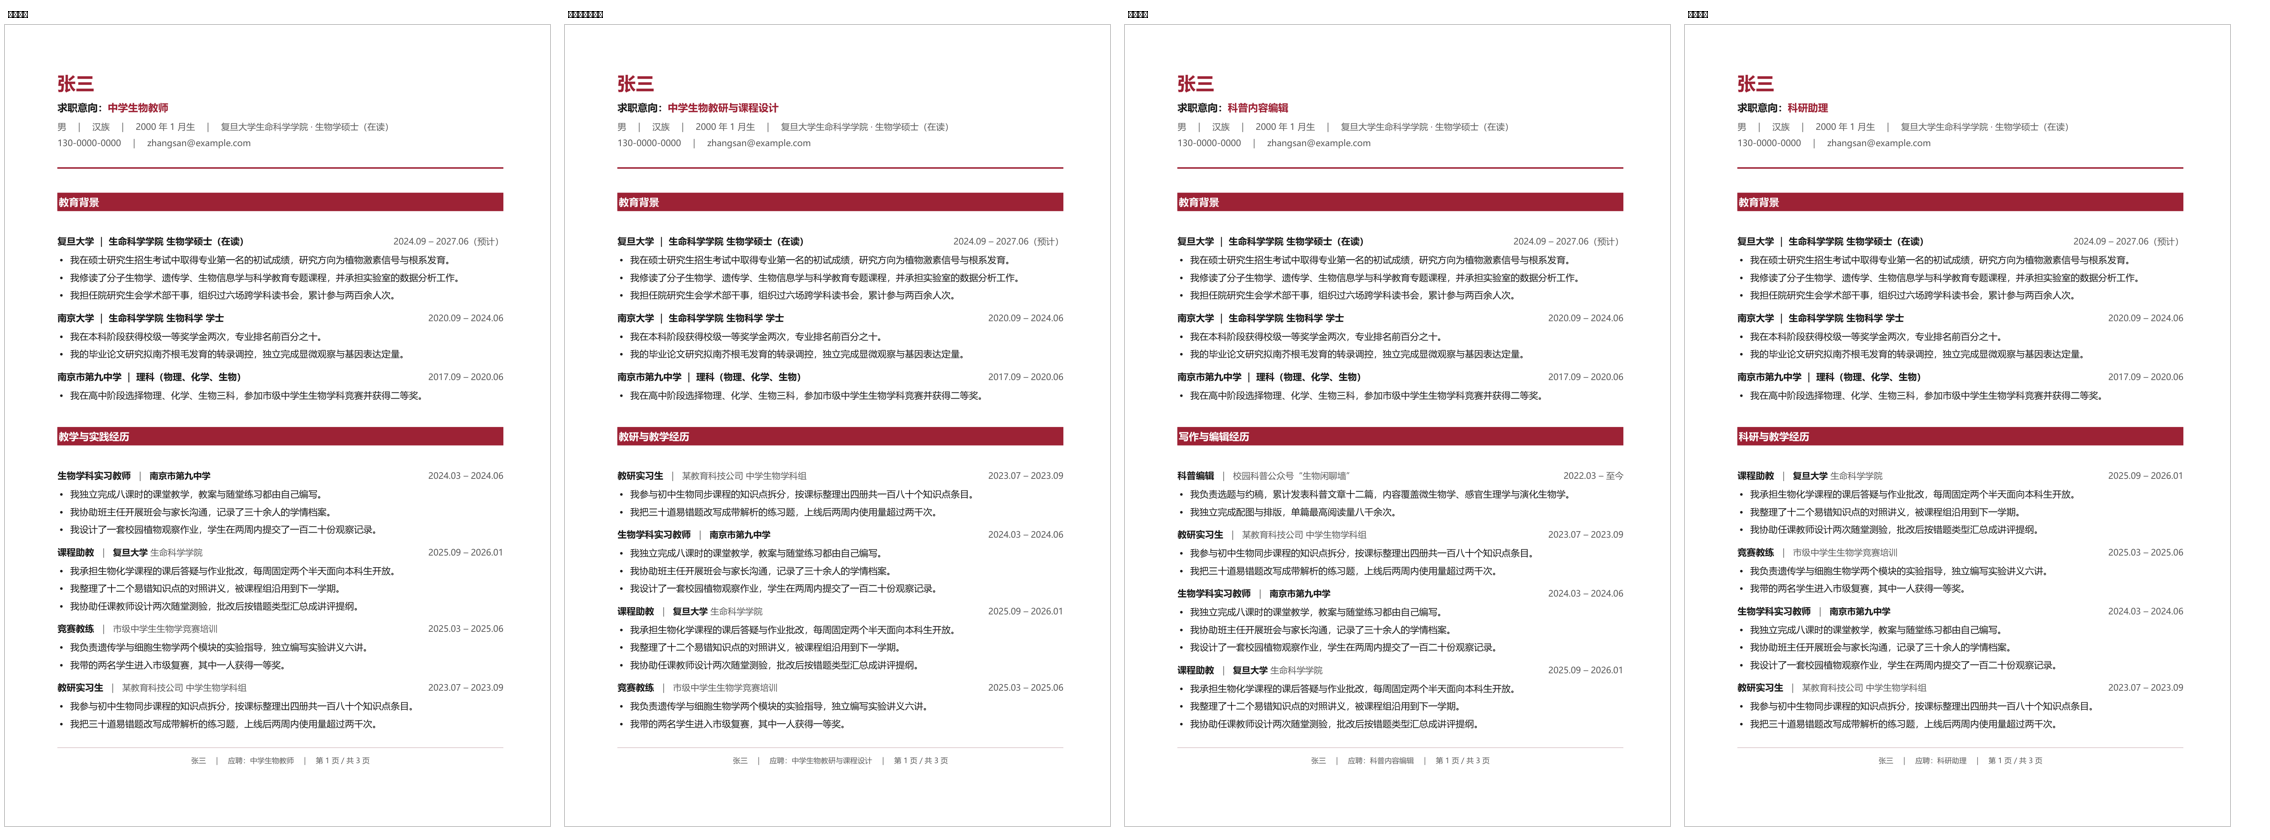
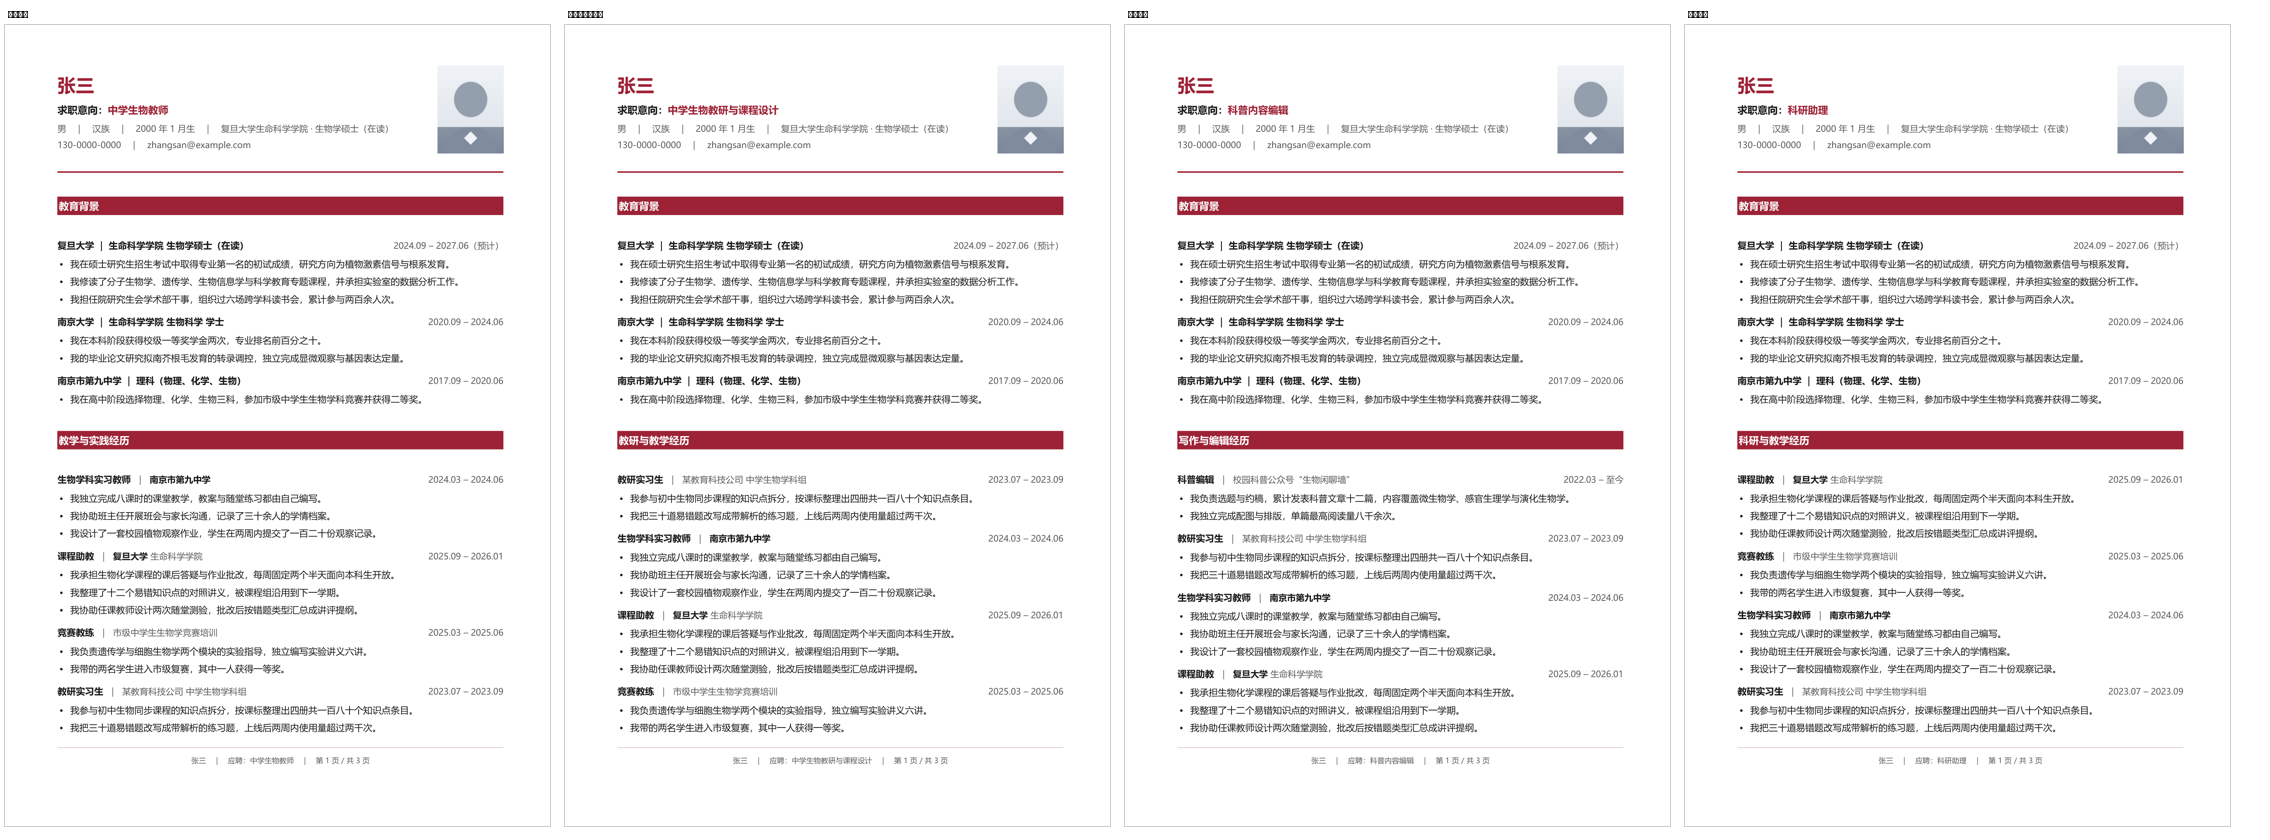
docs: 简介改写; 示例加模拟证件照, 截图随之更新

diff --git a/README.md b/README.md
@@ -1,6 +1,8 @@
 # resume-cn
 
-中文简历生成与检查工具。读一份个人信息和一份岗位配置，输出 Word 与 PDF，生成时检查体例、语言、字体和隐私。
+用户提供个人信息、证件照与证书等材料，配合不同的岗位描述，生成 Word 与 PDF 格式的个人简历。
+
+生成时检查体例、语言、字体与隐私，任一项不通过即中止，退出码为 1。
 
 ![license](https://img.shields.io/badge/license-MIT-9D2235) ![node](https://img.shields.io/badge/node-%E2%89%A5%2018-43853d)
 
